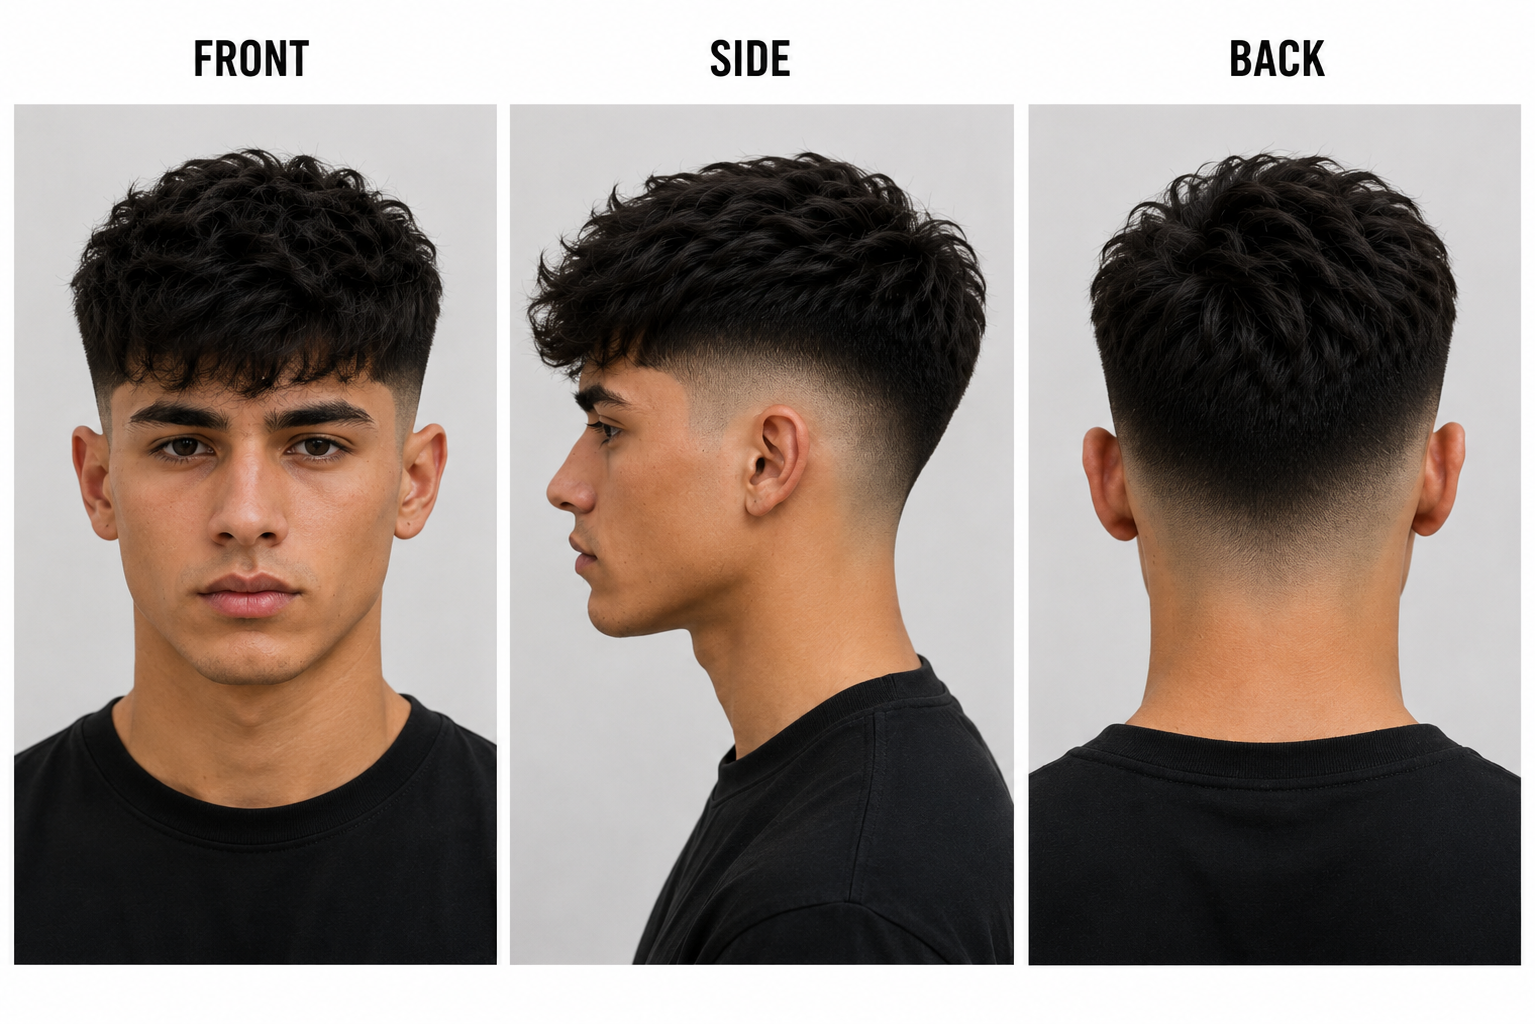
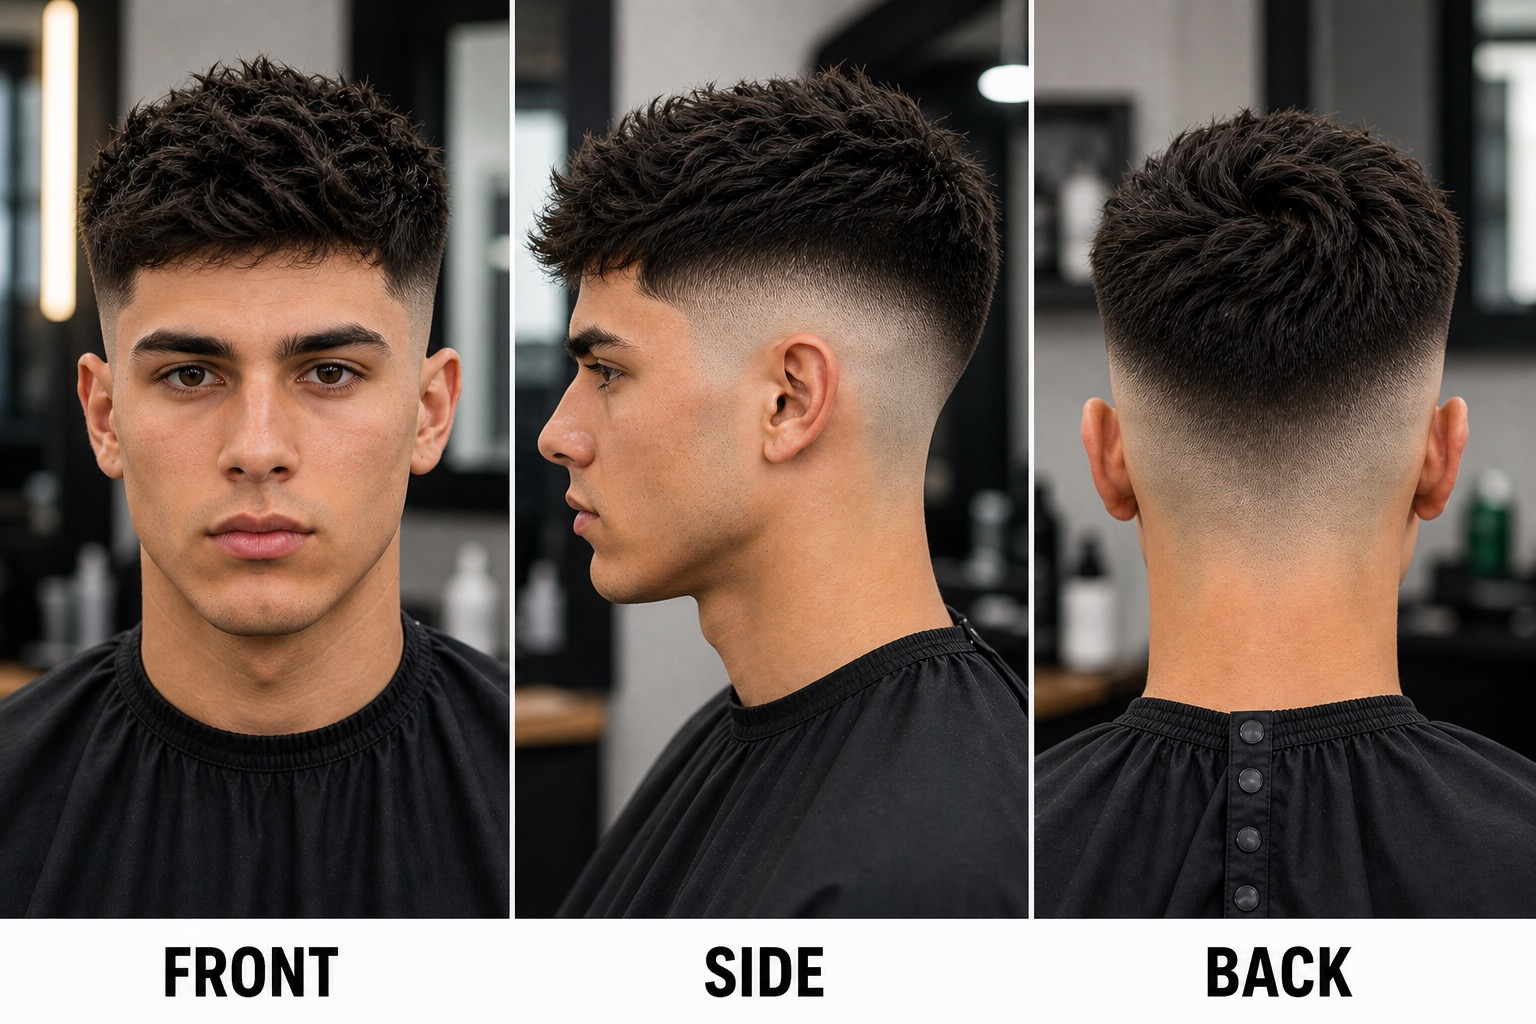
Update men's hairstyle images with versioning and enhance image display properties

diff --git a/frontend/src/app/stylist/trends/page.tsx b/frontend/src/app/stylist/trends/page.tsx
@@ -34,7 +34,7 @@ const buildTabs = (t: Translations): { id: Tab; label: string }[] => [
 const MENS_CUTS = [
   {
     name: "Low Fade",
-    image: "/images/trends/men/low-fade.jpg",
+    image: "/images/trends/men/low-fade.jpg?v=20260516b",
     popularity: 98,
     tag: "Trending",
     description:
@@ -43,7 +43,7 @@ const MENS_CUTS = [
   },
   {
     name: "Mid Fade",
-    image: "/images/trends/men/mid-fade.jpg",
+    image: "/images/trends/men/mid-fade.jpg?v=20260516b",
     popularity: 94,
     tag: "Classic",
     description:
@@ -52,7 +52,7 @@ const MENS_CUTS = [
   },
   {
     name: "High Fade",
-    image: "/images/trends/men/high-fade.jpg",
+    image: "/images/trends/men/high-fade.jpg?v=20260516b",
     popularity: 88,
     tag: "Bold",
     description:
@@ -61,7 +61,7 @@ const MENS_CUTS = [
   },
   {
     name: "Textured Quiff",
-    image: "/images/trends/men/textured-quiff.jpg",
+    image: "/images/trends/men/textured-quiff.jpg?v=20260516b",
     popularity: 91,
     tag: "Trending",
     description:
@@ -70,7 +70,7 @@ const MENS_CUTS = [
   },
   {
     name: "French Crop",
-    image: "/images/trends/men/french-crop.jpg",
+    image: "/images/trends/men/french-crop.jpg?v=20260516b",
     popularity: 85,
     tag: "Modern",
     description:
@@ -79,7 +79,7 @@ const MENS_CUTS = [
   },
   {
     name: "Buzz Cut",
-    image: "/images/trends/men/buzz-cut.jpg",
+    image: "/images/trends/men/buzz-cut.jpg?v=20260516b",
     popularity: 76,
     tag: "Minimal",
     description:
@@ -88,7 +88,7 @@ const MENS_CUTS = [
   },
   {
     name: "Pompadour",
-    image: "/images/trends/men/pompadour.jpg",
+    image: "/images/trends/men/pompadour.jpg?v=20260516b",
     popularity: 80,
     tag: "Classic",
     description:
@@ -97,7 +97,7 @@ const MENS_CUTS = [
   },
   {
     name: "Curtain Bangs (Men)",
-    image: "/images/trends/men/curtain-bangs-men.jpg",
+    image: "/images/trends/men/curtain-bangs-men.jpg?v=20260516b",
     popularity: 82,
     tag: "Trending",
     description:
@@ -377,24 +377,27 @@ function StyleImage({
 }) {
   const [failed, setFailed] = useState(false);
   return (
-    <div className="w-full h-44 bg-[#1C1C22] border-b border-[#27272A] overflow-hidden flex items-center justify-center group">
-      {!failed ? (
-        <Image
-          src={src}
-          alt={alt}
-          width={1536}
-          height={1024}
-          className="w-full h-full object-cover transition-transform duration-300 group-hover:scale-[1.03]"
-          onError={() => setFailed(true)}
-        />
-      ) : (
-        <div className="flex flex-col items-center justify-center gap-2 px-4 text-center">
-          <ImageIcon className="w-7 h-7 text-[#3f3f46]" strokeWidth={1.25} />
-          <p className="text-[#3f3f46] text-[9px] font-mono leading-relaxed break-all">
-            {src}
-          </p>
-        </div>
-      )}
+    <div className="w-full bg-[#0B0B0F] border-b border-[#27272A] overflow-hidden group">
+      <div className="h-52 bg-white flex items-center justify-center">
+        {!failed ? (
+          <Image
+            src={src}
+            alt={alt}
+            width={1536}
+            height={1024}
+            unoptimized
+            className="w-full h-full object-contain transition-transform duration-300 group-hover:scale-[1.02]"
+            onError={() => setFailed(true)}
+          />
+        ) : (
+          <div className="flex flex-col items-center justify-center gap-2 px-4 text-center">
+            <ImageIcon className="w-7 h-7 text-[#3f3f46]" strokeWidth={1.25} />
+            <p className="text-[#3f3f46] text-[9px] font-mono leading-relaxed break-all">
+              {src}
+            </p>
+          </div>
+        )}
+      </div>
     </div>
   );
 }
@@ -573,6 +576,7 @@ export default function StylistTrendsPage() {
                     alt={`${selectedStyle.name} front side back haircut reference`}
                     width={1536}
                     height={1024}
+                    unoptimized
                     className="w-full max-h-[68vh] object-contain"
                   />
                 </div>
